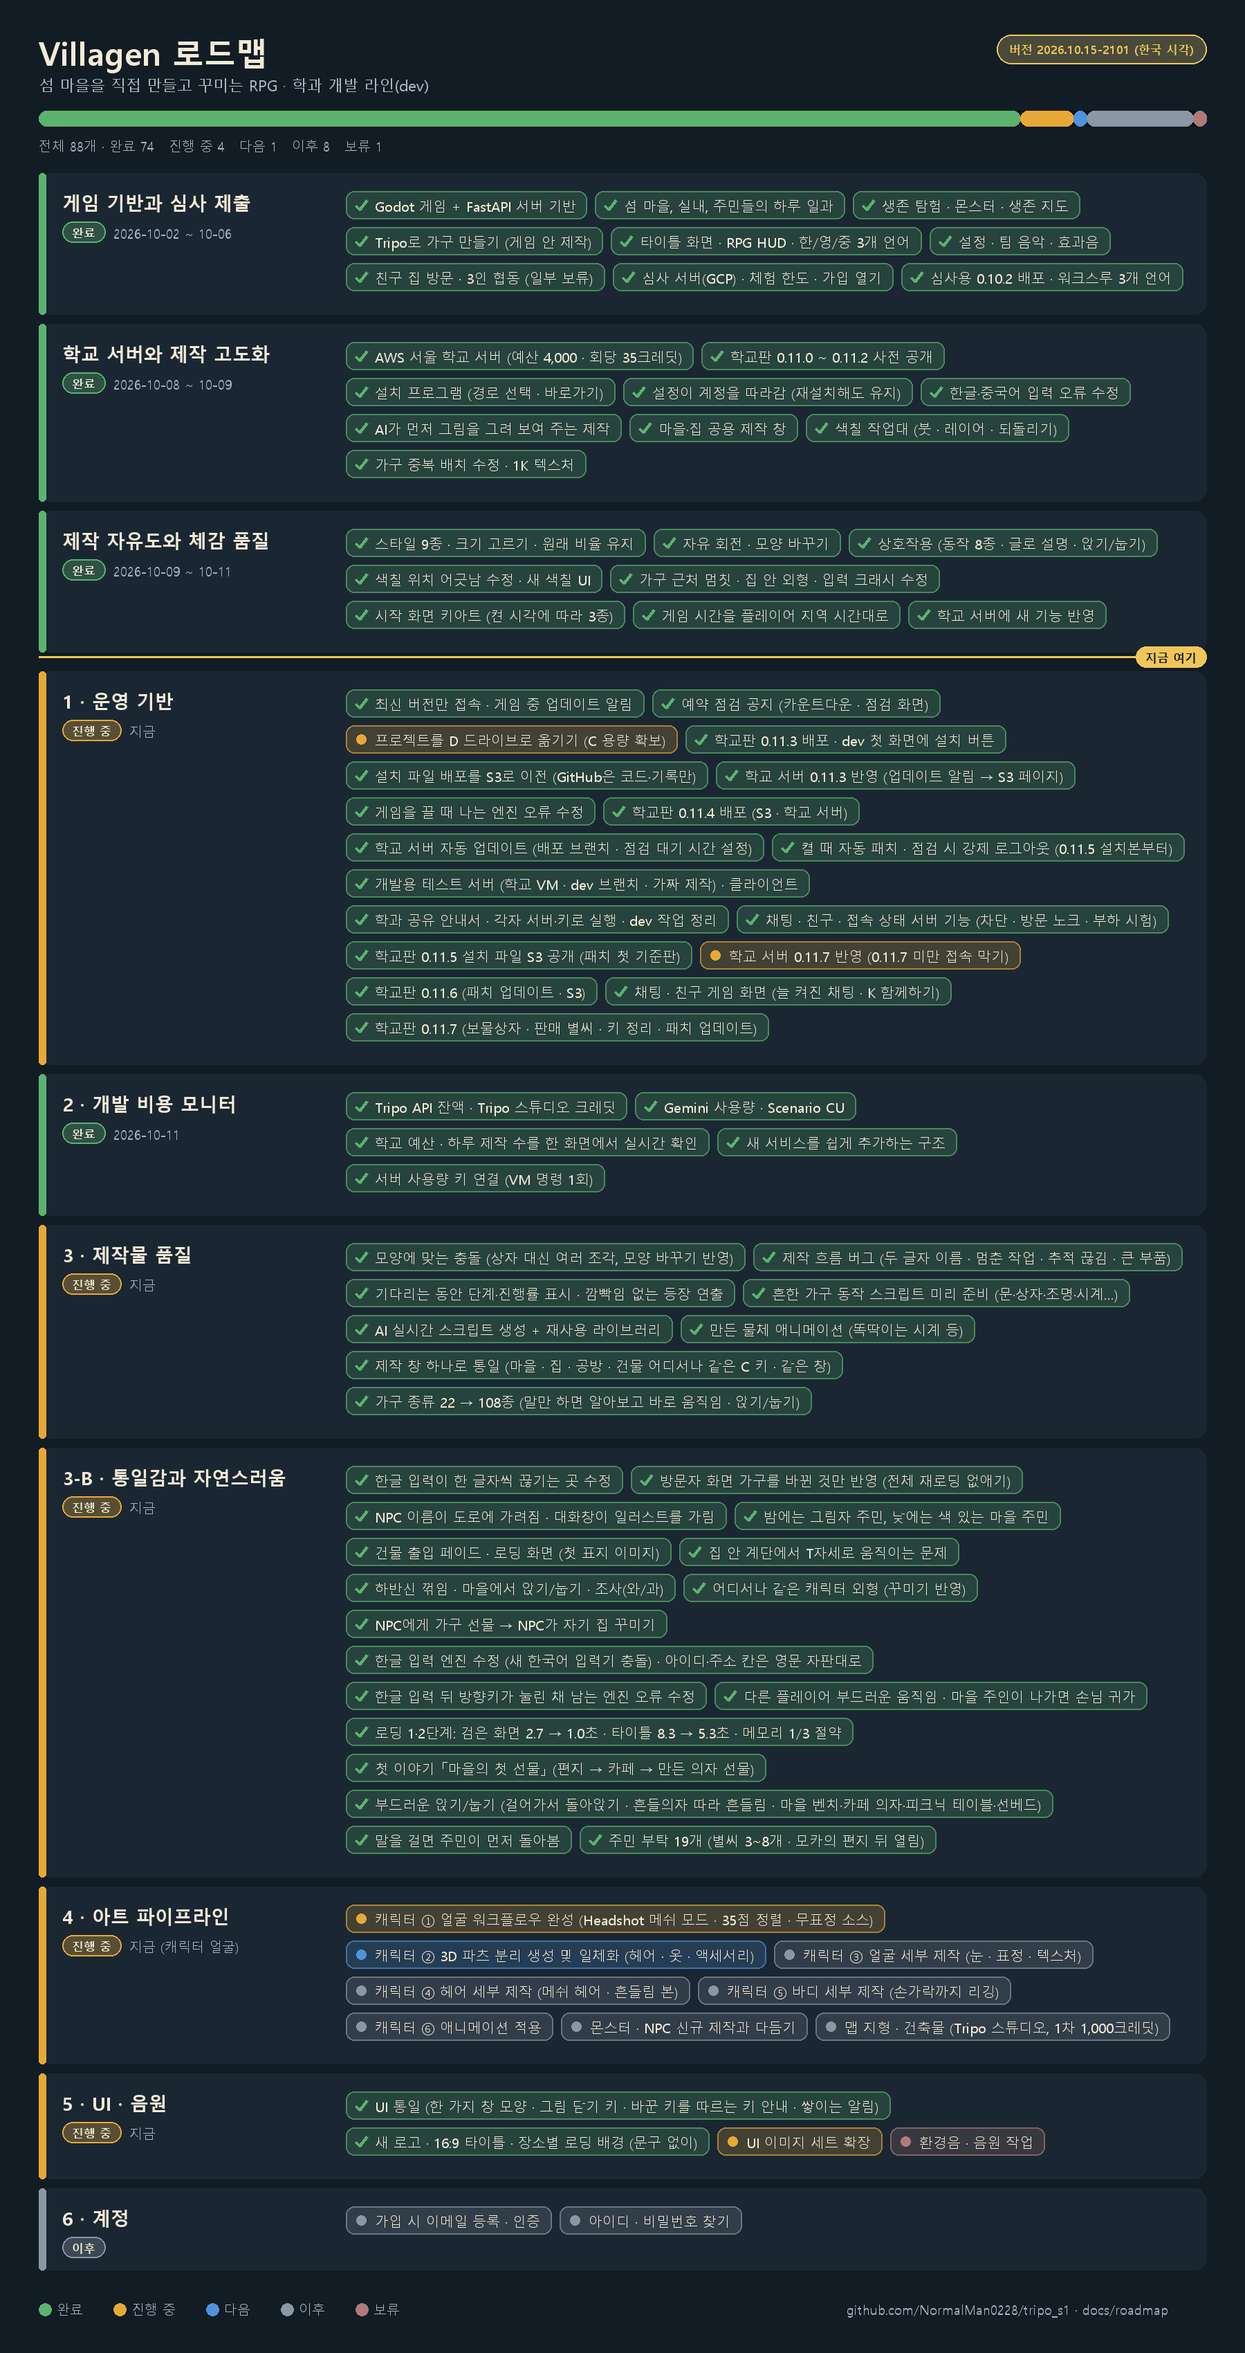
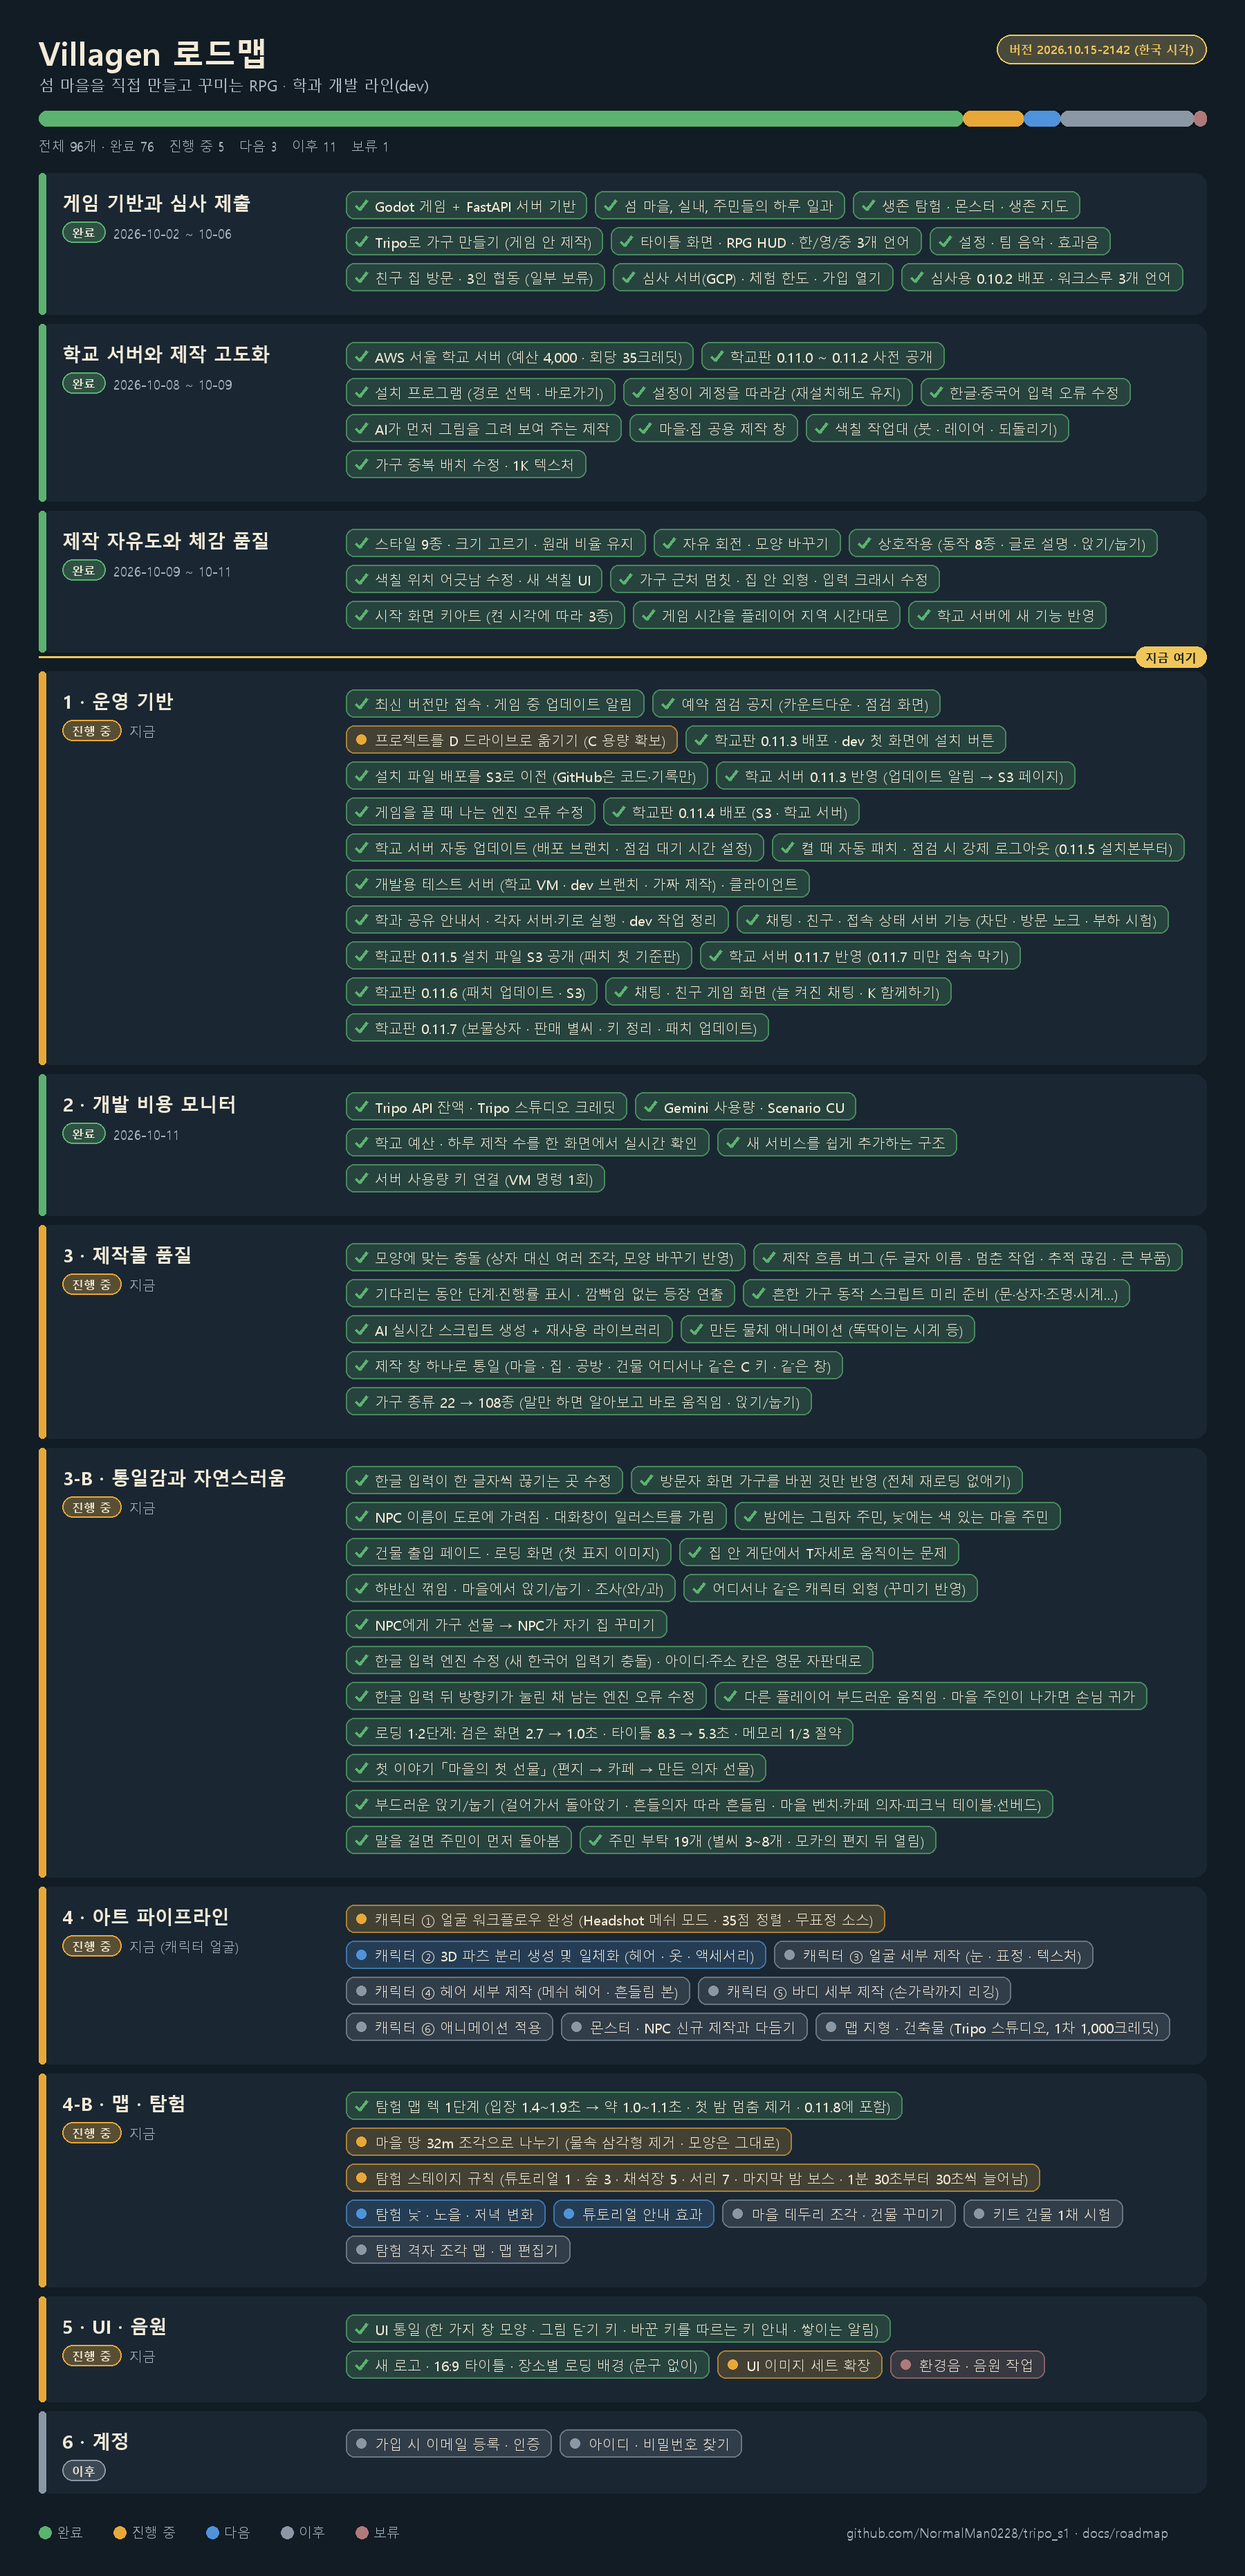
Roadmap: map/expedition phase (expedition lag stage 1 done, village land chunks and stage rules in progress), school 0.11.7 deploy done

diff --git a/docs/roadmap/ROADMAP_KO.md b/docs/roadmap/ROADMAP_KO.md
@@ -1,8 +1,8 @@
 # Villagen 로드맵
 
-**버전 2026.10.15-2101** (한국 시각) · 섬 마을을 직접 만들고 꾸미는 RPG · 학과 개발 라인(dev)
+**버전 2026.10.15-2142** (한국 시각) · 섬 마을을 직접 만들고 꾸미는 RPG · 학과 개발 라인(dev)
 
-> 그림으로 보기: [VISUAL_KO.md](VISUAL_KO.md) · 전체 88개 중 완료 74 · 진행 중 4 · 다음 1 · 이후 8 · 보류 1
+> 그림으로 보기: [VISUAL_KO.md](VISUAL_KO.md) · 전체 96개 중 완료 76 · 진행 중 5 · 다음 3 · 이후 11 · 보류 1
 
 - [학교 서버 운영 안내](../SCHOOL_SERVER_KO.txt)
 - [제작 품질표](../CRAFT_QUALITY_KO.md)
@@ -58,7 +58,7 @@
 - [x] 학과 공유 안내서 · 각자 서버·키로 실행 · dev 작업 정리 (10-14)
 - [x] 채팅 · 친구 · 접속 상태 서버 기능 (차단 · 방문 노크 · 부하 시험) (10-15)
 - [x] 학교판 0.11.5 설치 파일 S3 공개 (패치 첫 기준판) (10-15)
-- [ ] 학교 서버 0.11.7 반영 (0.11.7 미만 접속 막기) · *진행 중*
+- [x] 학교 서버 0.11.7 반영 (0.11.7 미만 접속 막기) (10-15)
 - [x] 학교판 0.11.6 (패치 업데이트 · S3) (10-15)
 - [x] 채팅 · 친구 게임 화면 (늘 켜진 채팅 · K 함께하기) (10-15)
 - [x] 학교판 0.11.7 (보물상자 · 판매 별씨 · 키 정리 · 패치 업데이트) (10-15)
@@ -113,6 +113,17 @@
 - [ ] 몬스터 · NPC 신규 제작과 다듬기 · *이후*
 - [ ] 맵 지형 · 건축물 (Tripo 스튜디오, 1차 1,000크레딧) · *이후*
 
+## 4-B · 맵 · 탐험  `진행 중` · 지금
+
+- [x] 탐험 맵 렉 1단계 (입장 1.4~1.9초 → 약 1.0~1.1초 · 첫 밤 멈춤 제거 · 0.11.8에 포함) (10-15)
+- [ ] 마을 땅 32m 조각으로 나누기 (물속 삼각형 제거 · 모양은 그대로) · *진행 중*
+- [ ] 탐험 스테이지 규칙 (튜토리얼 1 · 숲 3 · 채석장 5 · 서리 7 · 마지막 밤 보스 · 1분 30초부터 30초씩 늘어남) · *진행 중*
+- [ ] 탐험 낮 · 노을 · 저녁 변화 · *다음*
+- [ ] 튜토리얼 안내 효과 · *다음*
+- [ ] 마을 테두리 조각 · 건물 꾸미기 · *이후*
+- [ ] 키트 건물 1채 시험 · *이후*
+- [ ] 탐험 격자 조각 맵 · 맵 편집기 · *이후*
+
 ## 5 · UI · 음원  `진행 중` · 지금
 
 - [x] UI 통일 (한 가지 창 모양 · 그림 닫기 키 · 바꾼 키를 따르는 키 안내 · 쌓이는 알림) (10-15)
@@ -129,6 +140,7 @@
 
 | 버전 (한국 시각) | 바뀐 점 |
 |---|---|
+| 2026.10.15-2142 | 맵 · 탐험 단계 추가 (탐험 렉 1단계 완료, 땅 조각화 · 스테이지 규칙 진행 중), 학교 서버 0.11.7 반영 완료 |
 | 2026.10.15-2101 | 0.11.7 준비: 늘 켜진 채팅, K 함께하기, 키·창 통일, 보물상자 11개, 판매 별씨, 부탁 일찍 열림, 사다리, 길막·안내 반복 고침 |
 | 2026.10.15-1713 | 0.11.6 준비: UI 통일, 새 로고·타이틀·로딩 배경, 부드러운 앉기/눕기, 주민 부탁 19개, 배치·--no-patch 고침 |
 | 2026.10.15-1338 | 0.11.5 빌드: 한글 입력·눌린 키 엔진 수정, 부드러운 멀티, 로딩 단축, 제작 창 통일, 108종, 첫 이야기, 자동 패치 시작, 채팅·친구 서버, 개발 서버 |

diff --git a/docs/roadmap/VISUAL_KO.md b/docs/roadmap/VISUAL_KO.md
@@ -1,7 +1,7 @@
 # Villagen 로드맵 (그림)
 
-**버전 2026.10.15-2101** (한국 시각) · 글로 보기: [ROADMAP_KO.md](ROADMAP_KO.md)
+**버전 2026.10.15-2142** (한국 시각) · 글로 보기: [ROADMAP_KO.md](ROADMAP_KO.md)
 
-![Villagen 로드맵 2026.10.15-2101](roadmap.png)
+![Villagen 로드맵 2026.10.15-2142](roadmap.png)
 
 초록 완료 · 주황 진행 중 · 파랑 다음 · 회색 이후 · 갈색 보류

diff --git a/docs/roadmap/README.md b/docs/roadmap/README.md
@@ -1,8 +1,8 @@
 # Villagen 로드맵
 
-**버전 2026.10.15-2101** (한국 시각)
+**버전 2026.10.15-2142** (한국 시각)
 
 - [그림으로 보기](VISUAL_KO.md)
-- [글로 보기](ROADMAP_KO.md) — 완료 74 · 진행 중 4 · 다음 1 · 이후 8
+- [글로 보기](ROADMAP_KO.md) — 완료 76 · 진행 중 5 · 다음 3 · 이후 11
 
 ![로드맵](roadmap.png)
